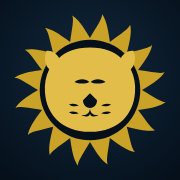
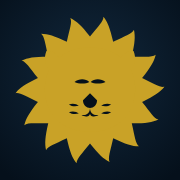
Adopt the solid silhouette lion mark
Switches the shipped icon from the emblem treatment to the solid silhouette:
one unbroken brass shape with the muzzle, eyes and nose cut out, dropping the
navy ring that separated the face from the mane.

Chosen because it survives shrinking best. At the 60px iOS actually draws on the
Home Screen, the emblem's ring and the outline and roundel treatments all go
muddy, while a single bold shape still reads as a lion.

The mane is tightened to 14 tufts so the notches stay distinct at small sizes.
Bumps the service worker cache so installed apps refetch the icon.

diff --git a/sw.js b/sw.js
@@ -5,7 +5,7 @@
 // and keeps the app fully usable in airplane mode; a background refresh picks up
 // new versions on the next launch.
 
-const CACHE = 'ava-shell-v6';
+const CACHE = 'ava-shell-v7';
 
 const SHELL = [
   './',
